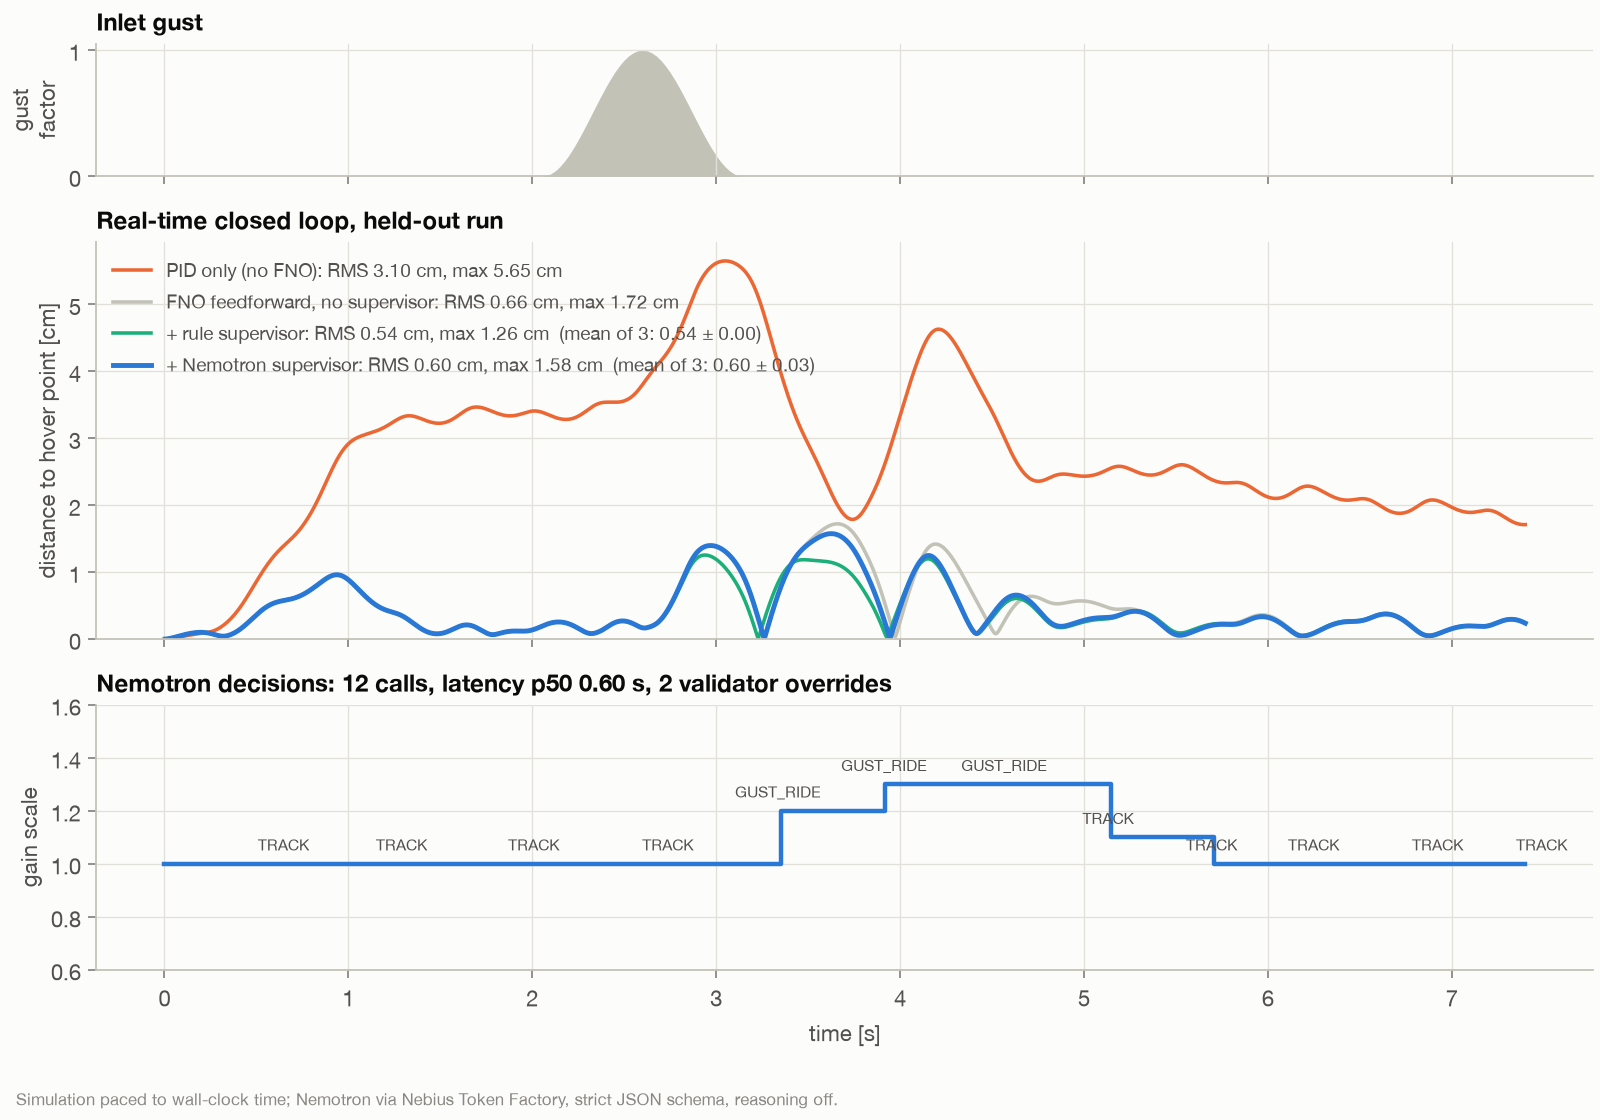
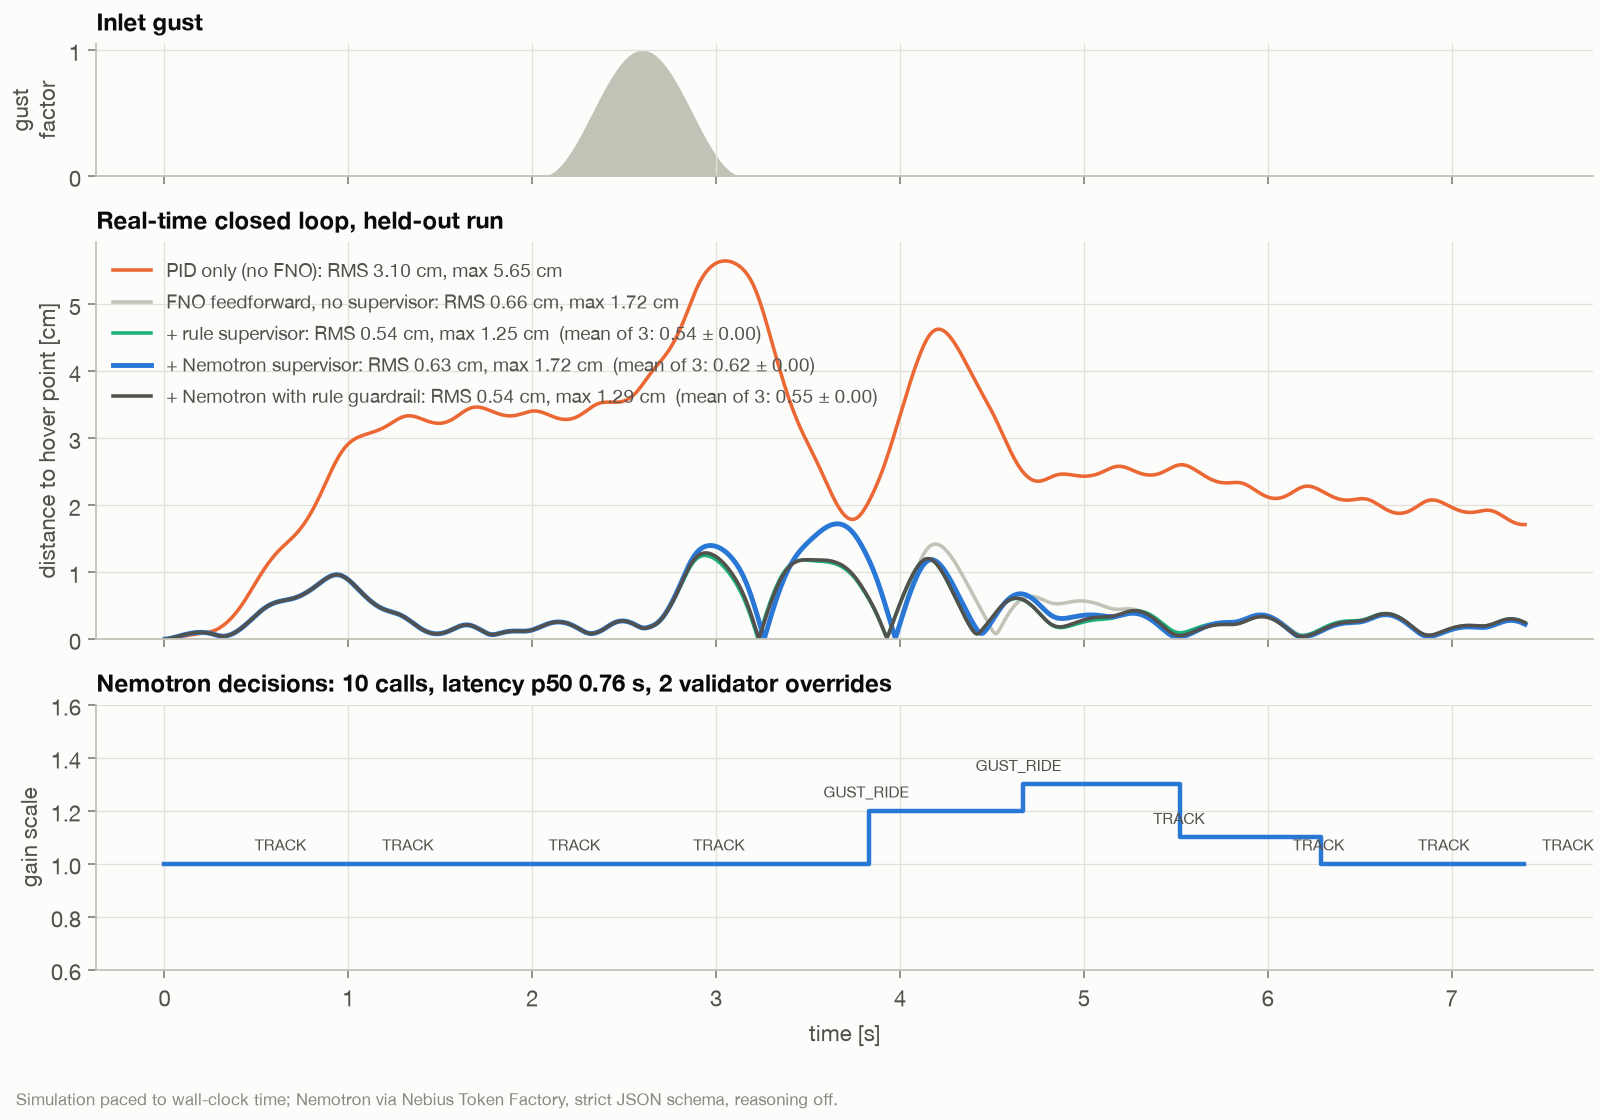
hybrid guardrail: 0.55 cm regardless of LLM latency

diff --git a/README.md b/README.md
@@ -63,8 +63,8 @@ flowchart LR
 
 - **−82 %** hover error vs. PID alone (−77 % to −87 % across 4 unseen runs)
 - **6 ms** to reconstruct the flow field (6.3 M-parameter FNO)
-- **0.6 s** per Nemotron decision, 37 of 37 valid
-- **No loss** in flight performance when the language model fails completely
+- **0.6–0.9 s** per Nemotron decision, 88 of 88 valid across 9 closed-loop runs
+- **No loss** in flight performance when the language model is slow or fails completely
 
 <details>
 <summary><b>Full results</b></summary>
@@ -99,16 +99,18 @@ Compensating only the exact mean wind (no FNO) already removes 60–76 %. The FN
 **Closed loop with Nemotron, real time, 3 repeats**
 
 | Configuration | RMS error | max error |
-|---|---|:---|
+|---|---|---|
 | PID only | 3.10 cm | 5.65 cm |
 | + FNO reflex | 0.66 cm | 1.72 cm |
 | + rule supervisor | 0.54 cm | 1.26 cm |
-| + Nemotron 3.5 Lightning | 0.60 ± 0.03 cm | 1.57 ± 0.16 cm |
-| + Nemotron with rule guardrail | <!-- TODO --> | <!-- TODO --> |
+| + Nemotron 3.5 Lightning | 0.61 ± 0.02 cm | 1.64 ± 0.13 cm |
+| **+ Nemotron with rule guardrail** | **0.55 ± 0.00 cm** | **1.29 ± 0.00 cm** |
 
-> *"Gust at drone (0.25) still present for 0.28 s; keep stiff gains."* (Nemotron, live)
+<sub>Nemotron: 6 runs over two sessions (latency p50 0.56–0.93 s). Guardrail: 3 runs.</sub>
 
-On this narrow task a zero-latency rule still edges out the LLM, so the rules stay as an instant guardrail and Nemotron adds judgment and explanations on top.
+> *"Gust at drone (0.26) still present for 0.65 s; maintain stiff gains."* (Nemotron, live)
+
+On its own, Nemotron's answer arrives 0.6–1 s after a zero-latency rule would have acted, so it trails the rules slightly and gets worse when the API is slow. With the rules as an instant guardrail underneath, the result no longer depends on LLM latency: in one run Nemotron answered in 1.6 s and missed the gust entirely, and the drone still held 0.55 cm.
 
 <img src="docs/figures/closed_loop_run_020.png" alt="Closed loop with Nemotron decisions">
 
@@ -204,7 +206,7 @@ Simulation only, 2D airflow, one obstacle shape. The sensors sit on the obstacle
 ```bibtex
 @software{aeroagent2026,
   title  = {AeroAgent: neural flow-field feedforward with an LLM supervisor for drones in gusty wakes},
-  author = {Sami Adam Moughli},
+  author = {<Your Name>},
   year   = {2026},
   url    = {https://github.com/r00tnomade/aeroagent}
 }
@@ -213,5 +215,5 @@ Simulation only, 2D airflow, one obstacle shape. The sensors sit on the obstacle
 ---
 
 <div align="center">
-<sub>Apache-2.0 · Built solo for the Nebius × NVIDIA Global AI Hackathon</sub>
+<sub>Apache-2.0 · Built solo for the Nebius × NVIDIA Global AI Hackathon, Physical AI track</sub>
 </div>
